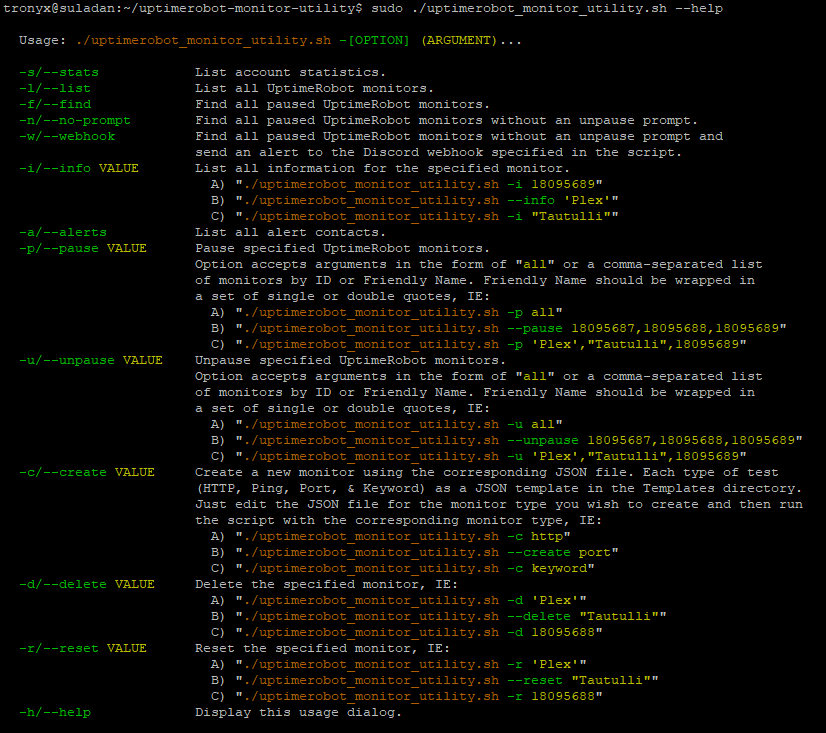
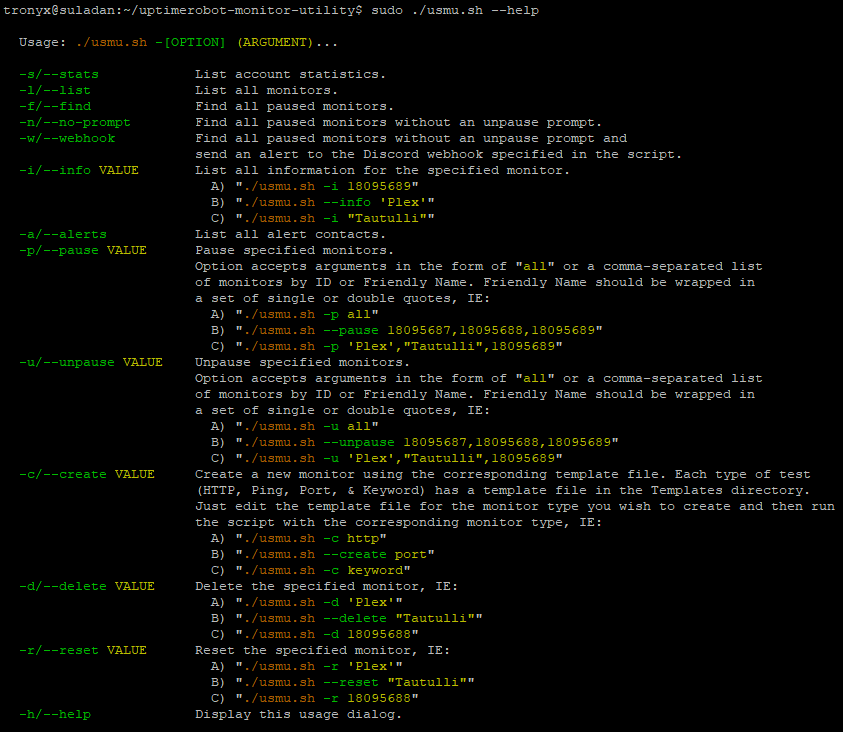
Travis fixes

diff --git a/README.md b/README.md
@@ -54,11 +54,11 @@ tronyx@suladan:~$ cd uptimerobot-statuscake-monitor-utility
 tronyx@suladan:~/uptimerobot-statuscake-monitor-utility$ chmod a+x usmu.sh
 ```
 
-Finally, open the script with your favorite text editor and add your UptimeRobot API key. If you forget this step the script will prompt you to enter your API key:
+Finally, open the script with your favorite text editor and add your provider's name (either UptimeRobot or StatusCake), your API key, and, if using StatusCake, your account username. If you forget this step the script will prompt you to enter all three:
 
-![API Key Prompt](/Images/api_key.png)
+![User Data Prompt](/Images/user_data.png)
 
-After entering your API key, the script will check whether or not it is valid and add it to the script for you.
+After entering the information, the script will check whether or not it is valid and then add it to the script for you.
 
 If you are not running the script as the root user, which is recommended, you will need to use `sudo` as the script creates a directory in `/tmp`. The script checks whether or not you're root or are using `sudo` so, if you forget, it will get added for you.
 
@@ -113,7 +113,7 @@ Find and display all monitors in your account that are currently paused:
 
 ```json
 tronyx@suladan:~/uptimerobot-statuscake-monitor-utility$ sudo ./usmu.sh -f
-The following UptimeRobot monitors are currently paused:
+The following StatusCake monitors are currently paused:
 Plex (ID: 779783111)
 Radarr (ID: 780859973)
 Sonarr (ID: 780859962)
@@ -319,12 +319,12 @@ Unpausing Radarr:
 
 Monitors can be created using this option.
 
-Modify the settings of the corresponding monitor type JSON file in the `Templates` directory, IE: creating a new HTTP(s) monitor so modify the `Templates/new-http-monitor.json` file. The full API documentation can be found [HERE](https://uptimerobot.com/api) for information on monitor types and any required values and what they're for.
+Modify the settings of the corresponding monitor type template file in the corresponding `Templates` directory for your provider, IE: creating a new HTTP(s) monitor for UptimeRobot would require you to modify the `Templates/UptimeRobot/new-http-monitor.json` file. The full API documentation for the two providers can be found [HERE](https://uptimerobot.com/api) and [HERE](https://www.statuscake.com/api/index.md) for information on monitor types and any required values and what they're for.
 
 The below example is for creating a new HTTP(s) monitor for Google:
 
 ```json
-tronyx@suladan:~/uptimerobot-statuscake-monitor-utility$ cat Templates/new-http-monitor.json
+tronyx@suladan:~/uptimerobot-statuscake-monitor-utility$ cat Templates/UptimeRobot/new-http-monitor.json
 {
       "api_key": "",
       "friendly_name": "Google",
